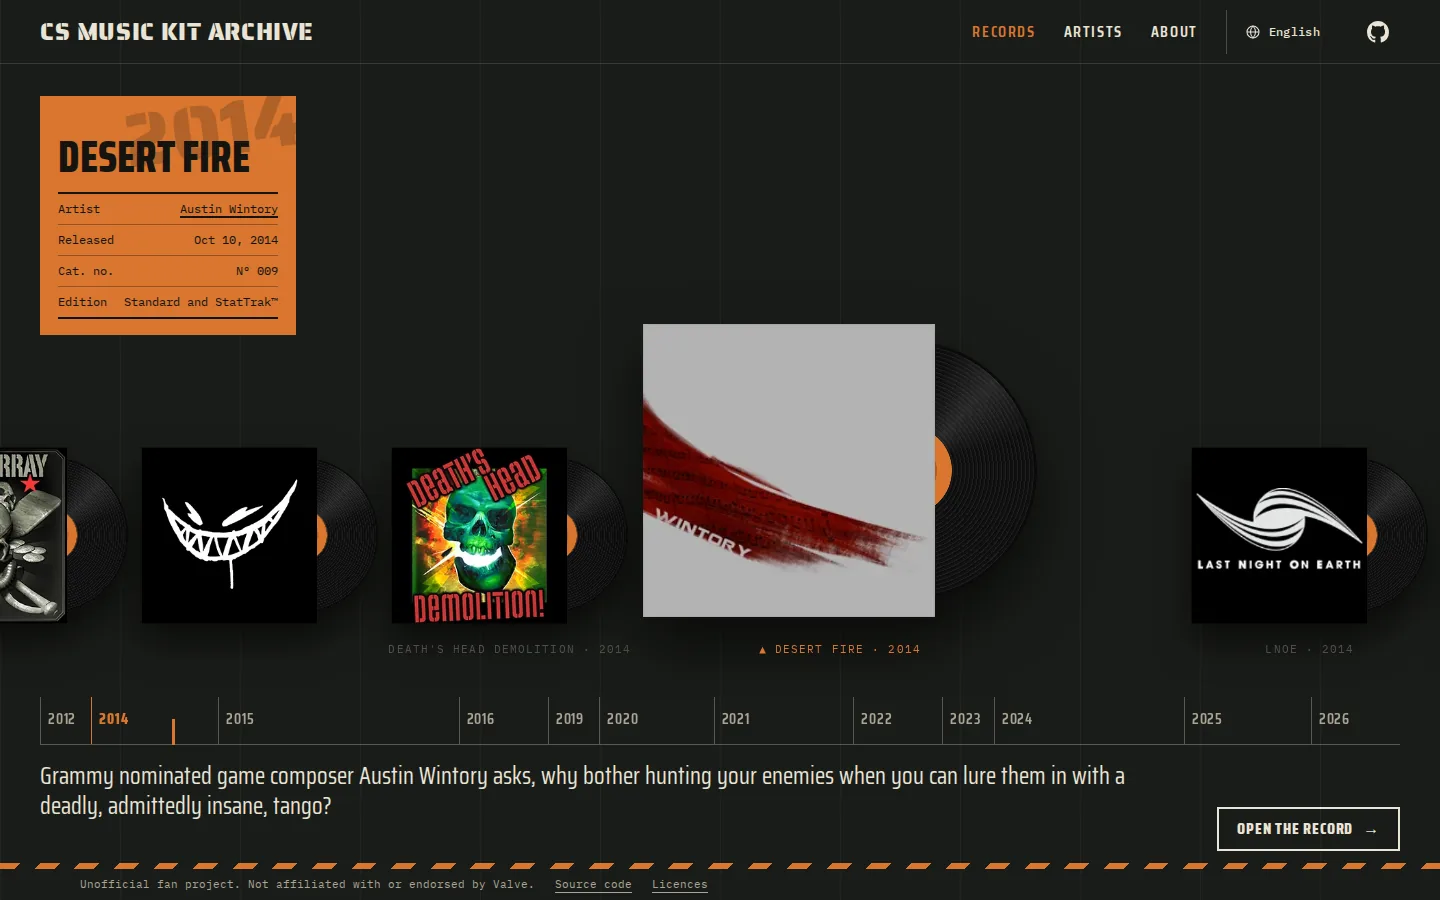
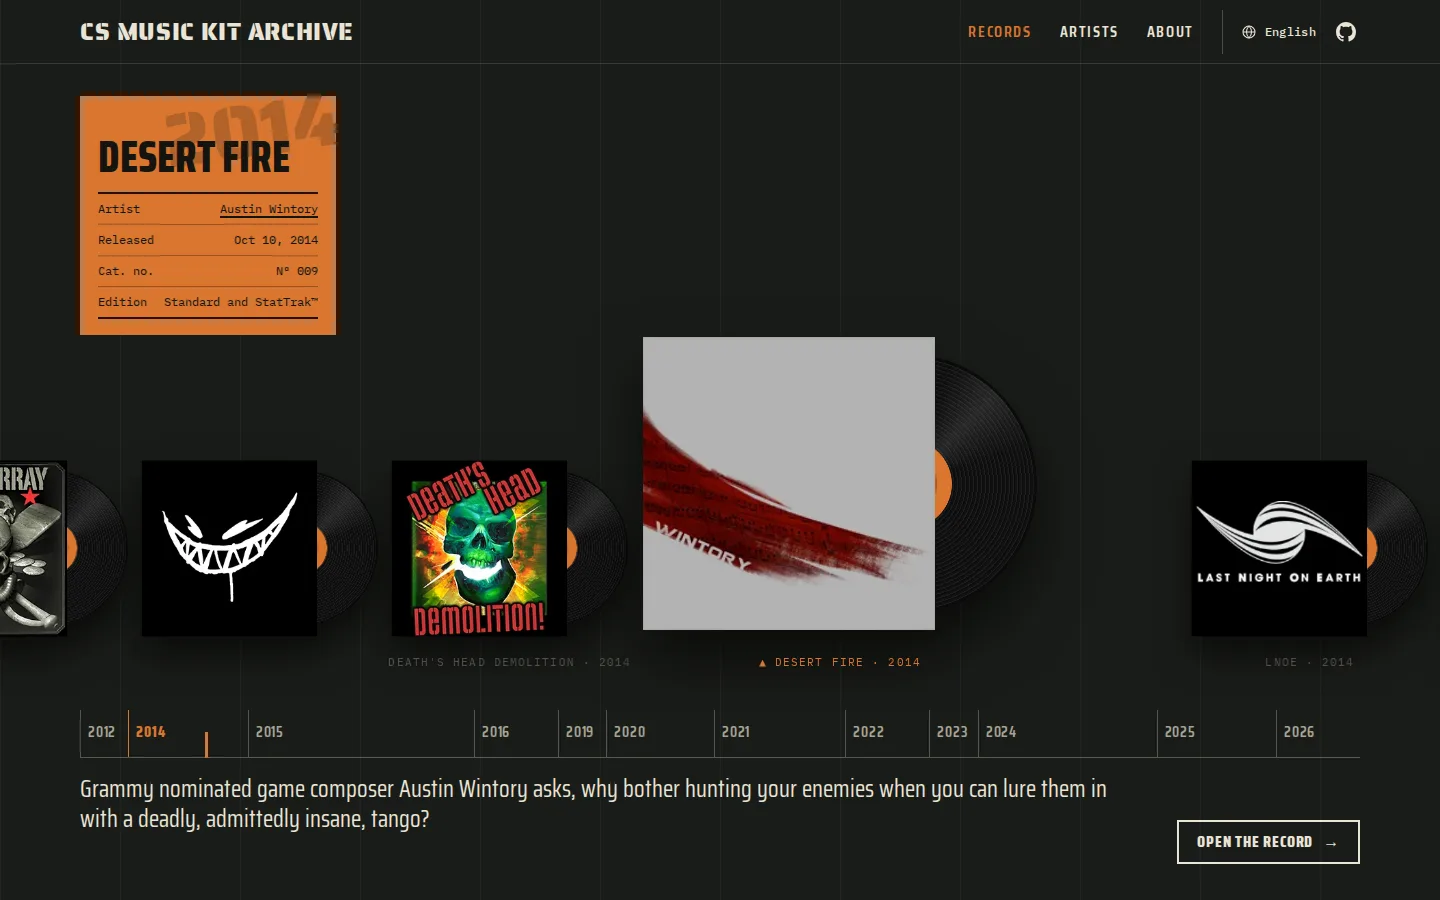
Describe the site in one plain line and simplify the README header (#32)
* Describe the site in one plain line

The one-line descriptions (README tagline, About page intro, SPEC purpose,
CLAUDE.md) no longer headline the language support; it stays listed as a
feature in the README and in the SPEC's language rules.

Claude-Session: https://claude.ai/code/session_01NcErTXb9XqbuRMNUFLW74W

* Retake the README screenshot without the old footer

Claude-Session: https://claude.ai/code/session_01NcErTXb9XqbuRMNUFLW74W

* Open the README the way comparable site repos do

The title links to the website; the row of About and Report links is
gone, since the README's own sections and the Issues tab cover both.

Claude-Session: https://claude.ai/code/session_01NcErTXb9XqbuRMNUFLW74W

---------

diff --git a/SPEC.md b/SPEC.md
@@ -4,7 +4,7 @@ What the site does, the rules its data follows, and why. Only what the code and 
 
 ## Purpose
 
-An unofficial site that presents every Counter-Strike music kit, from the default CS:GO music of 2012 to today, at musickitarchive.com. The game's own preview of a kit is short; here every track plays in full, in every language CS2 ships. No accounts, no user content, no prices or trading, no 3D models.
+An unofficial site that presents every Counter-Strike music kit, from the default CS:GO music of 2012 to today, at musickitarchive.com. The game's own preview of a kit is short; here every track plays in full. No accounts, no user content, no prices or trading, no 3D models.
 
 The design reference is the claude.ai Design canvas "CS Music Kits Archive", page "Current design", style A "Supply Depot" (link in `CLAUDE.md`).
 

diff --git a/README.md b/README.md
@@ -1,18 +1,8 @@
-<h1 align="center">CS Music Kit Archive</h1>
+# [CS Music Kit Archive](https://musickitarchive.com)
 
-<p align="center">
-  Every Counter-Strike music kit, with its full tracklist, in every language of CS2.
-  <br />
-  <a href="https://musickitarchive.com">Website</a>
-  ·
-  <a href="https://musickitarchive.com/en/about/">About</a>
-  ·
-  <a href="https://github.com/shirodune/cs-music-kit-archive/issues">Report a mistake</a>
-</p>
+Every Counter-Strike music kit.
 
-<p align="center">
-  <img src="docs/screenshot.webp" alt="The records rack on musickitarchive.com, with Desert Fire by Austin Wintory selected" width="1100">
-</p>
+![The records rack on musickitarchive.com, with Desert Fire by Austin Wintory selected](docs/screenshot.webp)
 
 ## About
 

diff --git a/CLAUDE.md b/CLAUDE.md
@@ -1,6 +1,6 @@
 # CS Music Kit Archive
 
-Unofficial site that presents every Counter-Strike music kit with full tracklists, in every language CS2 ships. Live at musickitarchive.com.
+Unofficial site that presents every Counter-Strike music kit with full tracklists. Live at musickitarchive.com.
 
 ## Read the spec first
 
